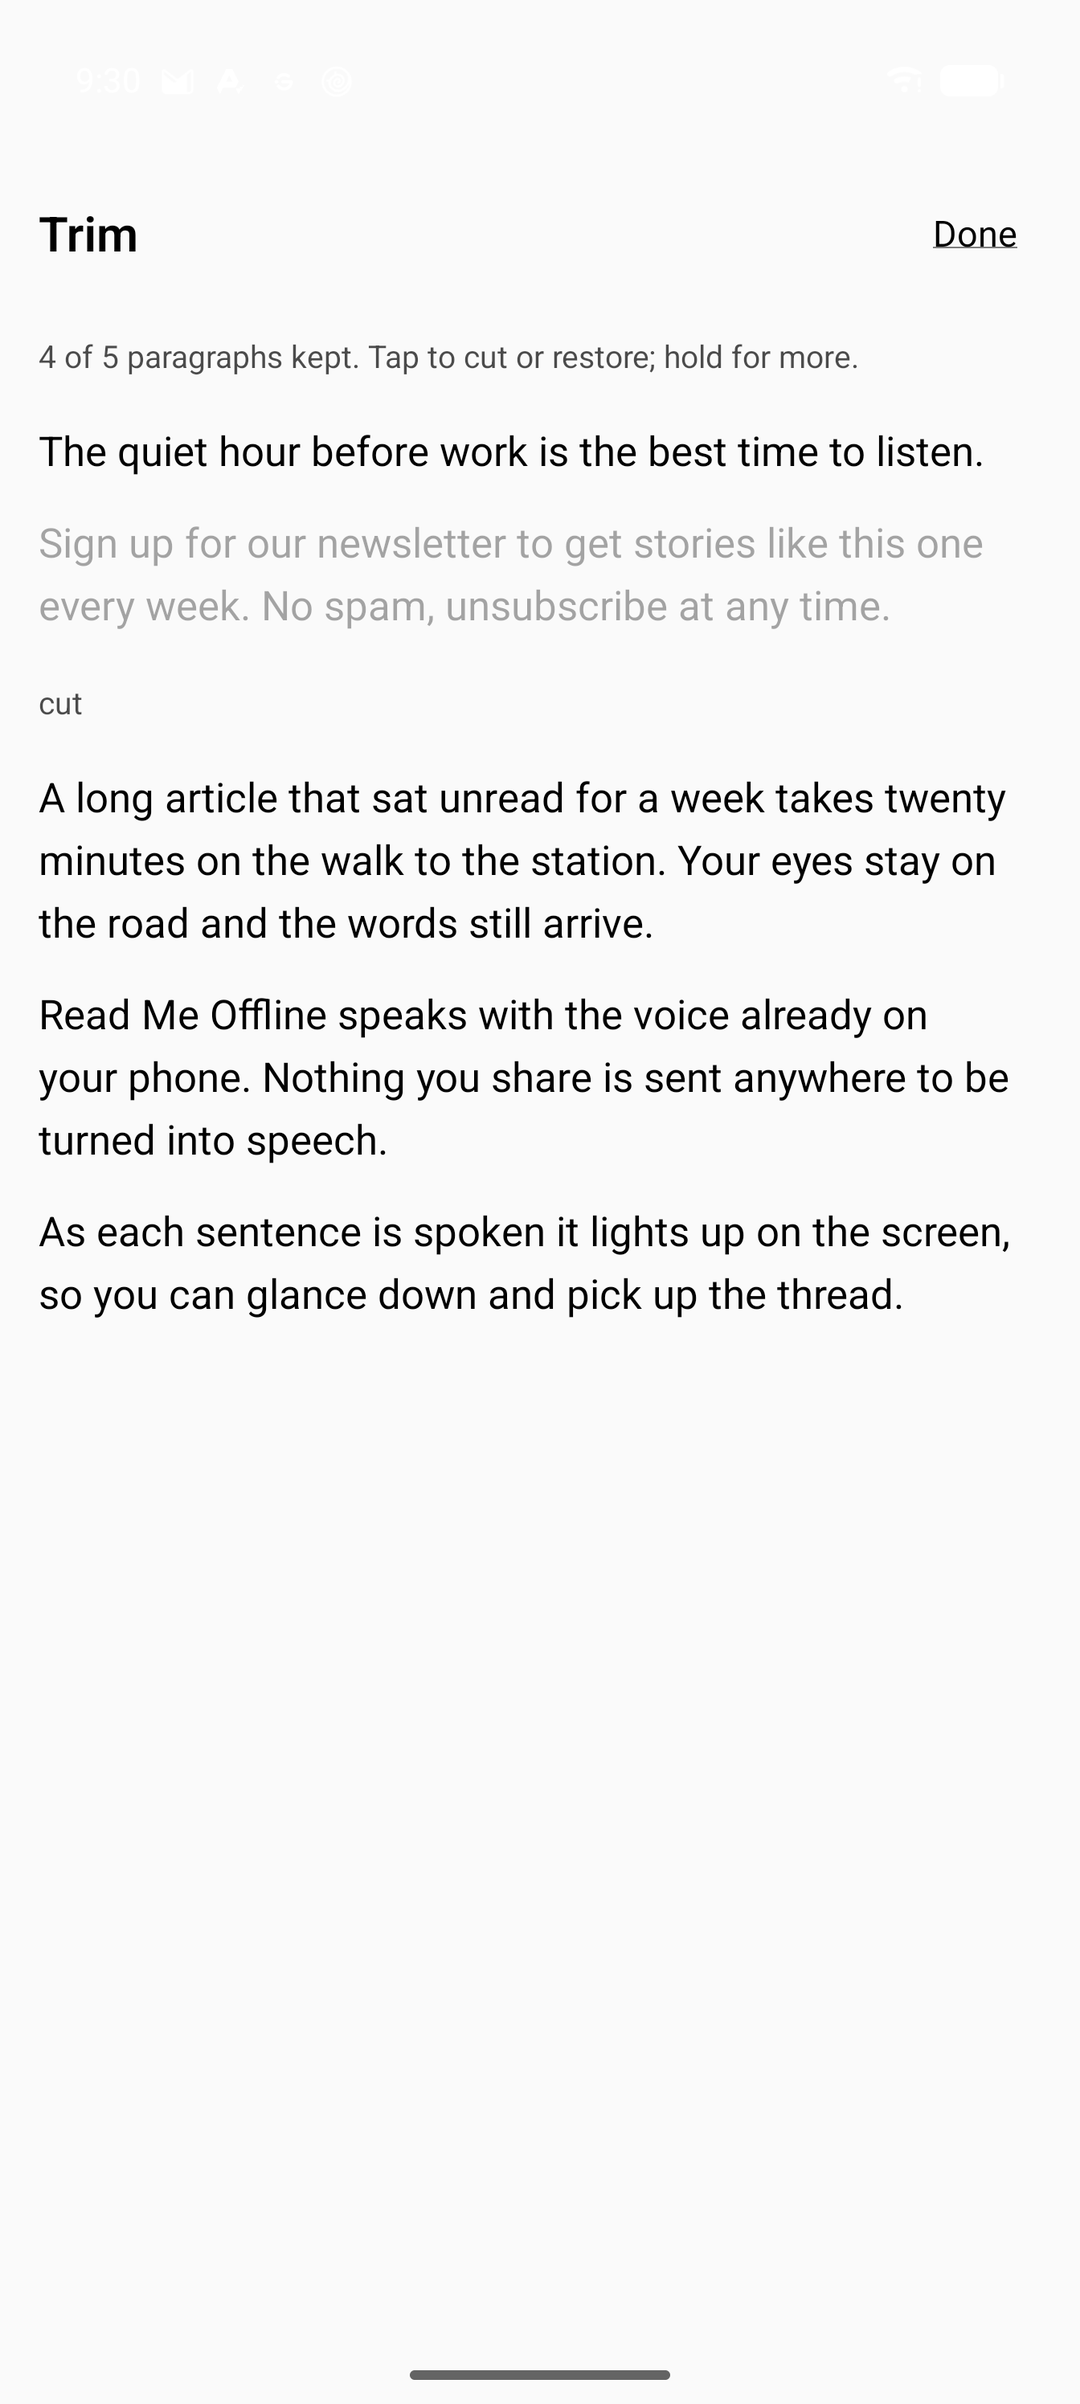
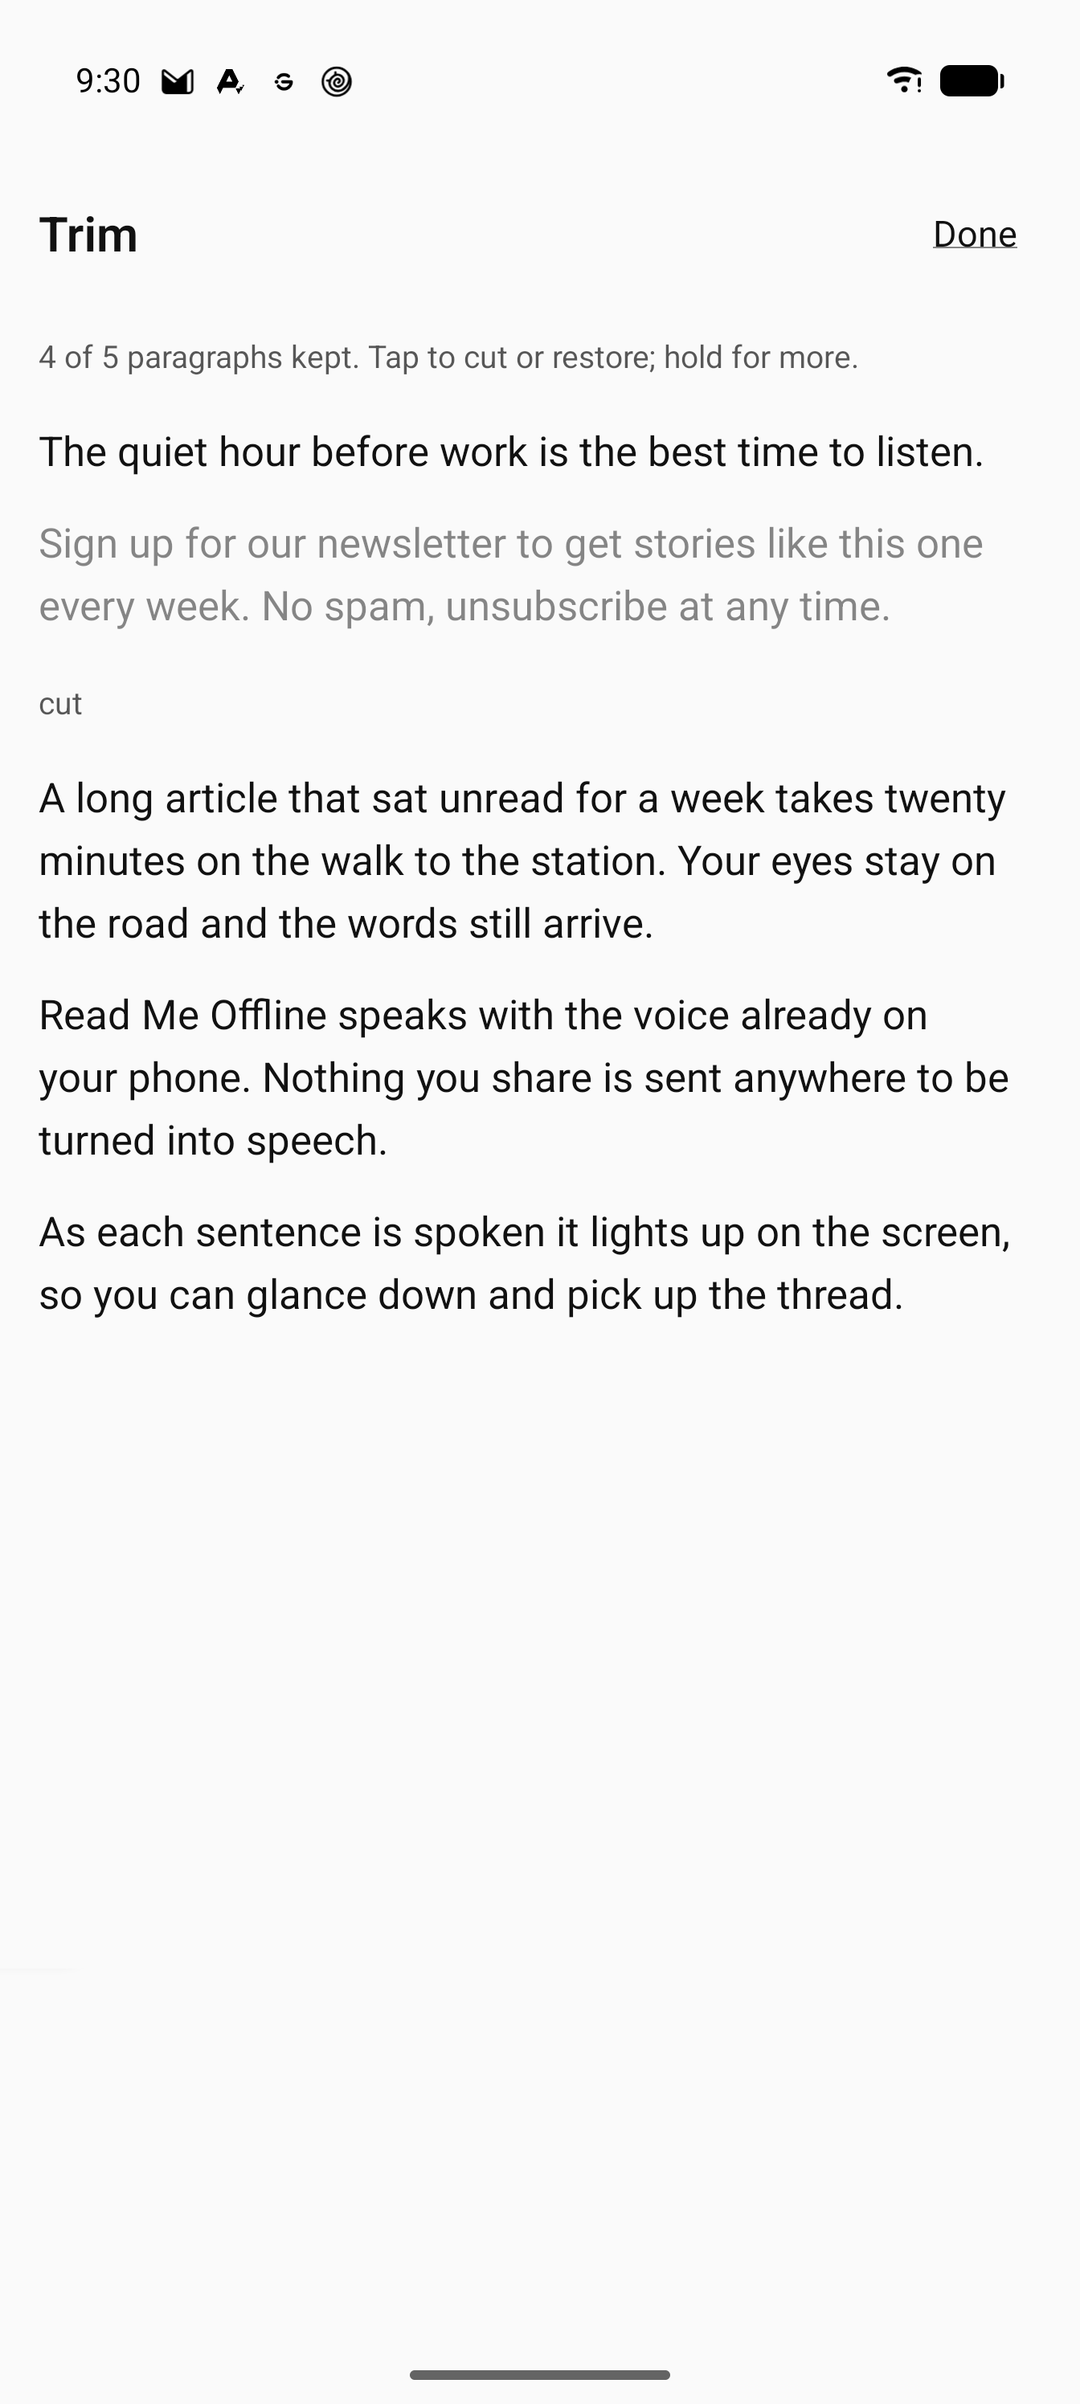
docs(ui): R-M01 follows light and dark mode; record device:themes; new store screenshots
srs.md R-M01 now commits to both modes with contrast targets (REA-22). AGENTS.md
lists device:themes and records the measurements on ef0fbc6, plus one device:ui
crash at Licenses in six runs that did not reproduce; device:ui now keeps the
crash buffer when it sees one. The F-Droid screenshots are retaken on ef0fbc6
(status bar icons visible; another app's overlay masked).

diff --git a/AGENTS.md b/AGENTS.md
@@ -44,6 +44,7 @@ npm run device:gap        # gap check: 2 min at 2x on battery (simulated), force
 GAP_MINUTES=10 npm run device:gap   # the R-M07 measurement (10 min, about 12): only when the queue, TtsSpeaker or PlaybackService timing changes, and before a release
 npm run device:ui         # every Phase 4 screen: list states, Trim on first open, Reader highlight and kept-only play, delete, Settings, Licenses (clears app data)
 npm run device:bridge     # R-M12: turns the bridge on in Settings, then contract, hostile input, 503 while playing, Obsidian's WebView over CDP when installed, bridge off; logcat has no token (clears app data)
+npm run device:themes     # R-M01: all five screens in light and dark mode; measures every text node and the status bar (contrast 4.5:1, faint 3:1; clears app data). Run after any colour or style change
 npm run notices           # regenerate Settings > Licenses' asset after any dependency change (build:release refuses a stale one)
 npm run device:screenshots  # F-Droid phone screenshots of the real app (light mode, demo status bar; clears app data).
                             # SCREENSHOT_MASK=x0,y0,x1,y1 hides another app's floating overlay; refuses if it would hide content
@@ -167,6 +168,13 @@ Each of these is a promise the product makes. Breaking one is a BLOCK, not a con
   reference device, build 3b86e03: `npm run device:ui` (including the highlight kept in view
   deep in an 80-sentence paragraph) and `npm run device:playback` (through Trim and the
   Reader); `npm run device:intake` on c870f28. The bridge is Phase 5 (below).
+  Light and dark mode (REA-22): colours come from `src/ui/theme.ts` through `src/ui/Text.tsx`;
+  `npm run device:themes` on build ef0fbc6 (2026-10-03): every text node 6.9:1 or better in
+  light mode and 7.7:1 in dark, cut and disabled text 3.54 and 4.49, status bar 20.1 and 18.7,
+  highlight 16.9 (before, on 01eeefa: dark text 1.2-1.6, light status bar 1.04). One
+  `device:ui` run in six on ef0fbc6 logged a Read Me crash at Settings > Licenses that 30
+  targeted loops did not reproduce; its log was lost, and `device:ui` now keeps the crash
+  buffer (`.claude/scratch/device-ui-crash.log`).
   Every screen View is `collapsable={false}`: React Native issue #58265 (Fabric drops a Create
   when flattened wrappers unflatten during remounts) otherwise crashed or blanked List to Trim.
   R-M13 is partial: Licenses lists npm packages (with their license text where the package

diff --git a/CONTEXT.md b/CONTEXT.md
@@ -80,7 +80,8 @@ src/native/                  NativeReadMeSpeech.ts: the TurboModule spec (codege
 src/library/                 TS facade over ReadMeSpeech: items, actions, fetched drain, change events;
                              playback.ts: R-M07/R-M11 play plan (start sentence from the saved offset), controls, playback events
 src/ui/                      R-M01 screens: model.ts (routes, R-M10 actions, list rows, reader
-                             spans; pure), List, Trim, Reader, Settings, Licenses
+                             spans; pure), List, Trim, Reader, Settings, Licenses; theme.ts (light
+                             and dark palette) and Text.tsx (the themed Text every screen uses)
 src/net/                     R-M09: release runtime stub over fetch, XMLHttpRequest, WebSocket
 src/devcheck/                devcheck bundle only: fingerprints and the DevCheck root component
                              (fixtures.generated.ts is gitignored, written by make-devcheck-fixtures.mjs)

diff --git a/srs.md b/srs.md
@@ -68,6 +68,12 @@ The app MUST open to the reading list. The UI MUST be limited to four screens in
 
 There MUST be no account, sign-in, onboarding carousel, feed, or recommendations.
 
+Every screen MUST follow the system light or dark mode and stay legible in both: text at
+a WCAG contrast of 4.5:1 or better against its background, text drawn faint on purpose (a
+cut paragraph, a disabled control) at 3:1 or better, and the status bar icons visible
+(amended 2026-10-03, REA-22: React Native drew black text in dark mode and the light status
+bar hid its icons; `npm run device:themes` measures both modes on the phone).
+
 ### R-M02 - Share-sheet intake
 
 The app MUST register as an `ACTION_SEND` target for `text/plain`.
